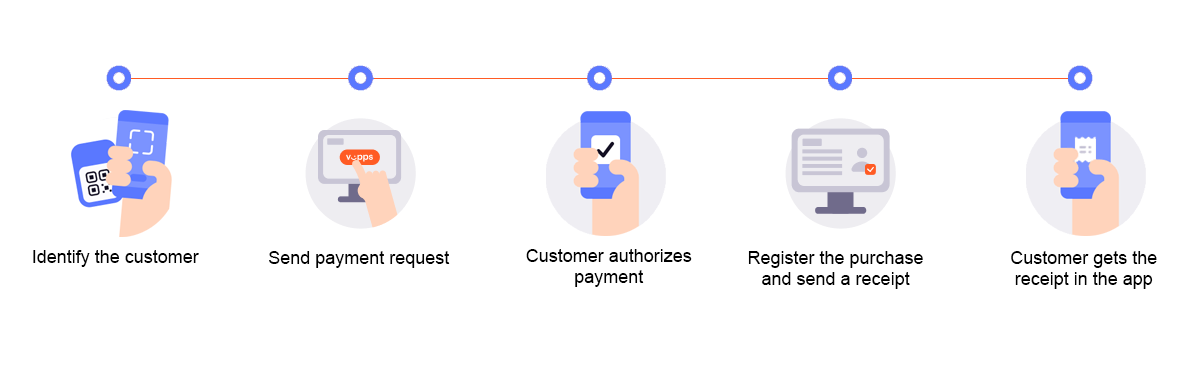
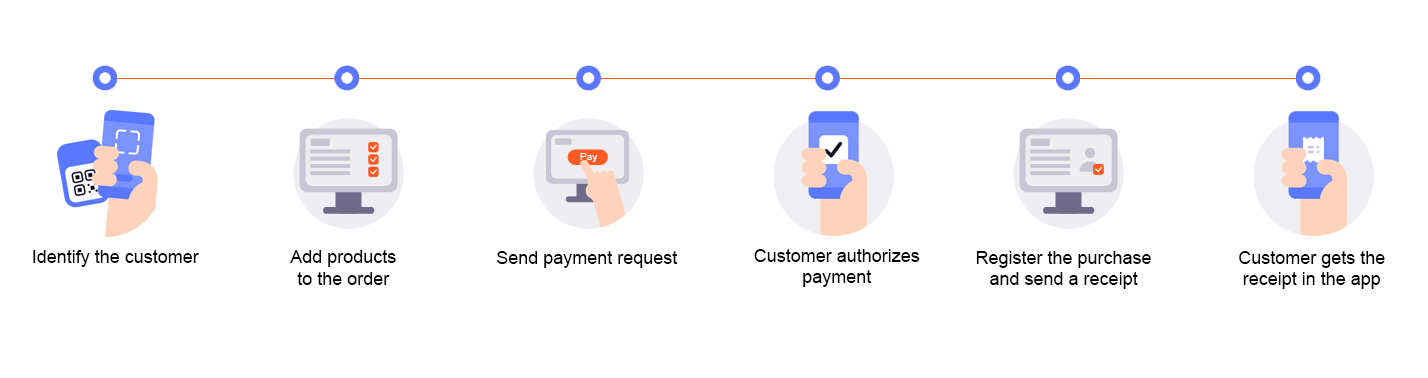
Update images

diff --git a/in-store/README.md b/in-store/README.md
@@ -18,7 +18,7 @@ and the
 
 ![Loyalty Flow](./images/POS_simple_flow.png)
 
-## Step 1: Scan the customer's QR code
+## Step 1: Identify the customer
 
 The flow begins with the customer presenting their QR code to the merchant. This can happen in two ways:
 
@@ -35,7 +35,7 @@ The customer's personal QR code contains a URL like this:
 
 When this QR code is scanned in the store, the POS will get their phone number.
 
-## Step 2: Add products to sell
+## Step 2: Add products to the order
 
 Add the products that the customer wants to buy in the POS system.
 
@@ -82,17 +82,19 @@ With body:
 </div>
 </details>
 
+## Step 4: Customer confirms the order
+
 The customer confirms the payment in the app.
 
 ![Confirm payment](images/vipps-in-store-step3-2.png)
 
-## Step 4: Register the payment
+## Step 5: Register the payment
 
-Once the customer authorizes the payment, the POS will be updated with the status.
+Once the customer authorizes the payment, update the POS system with the status.
 
-## Step 5. Add the order receipt
+## Step 6. Add the order receipt
 
-After payment, add a payment receipt. This will appear in the Vipps MobilePay app.
+Add a payment receipt that will appear in the Vipps MobilePay app.
 
 The
 [`postReceipt` endpoint](https://developer.vippsmobilepay.com/api/order-management/#operation/postReceiptV2)
